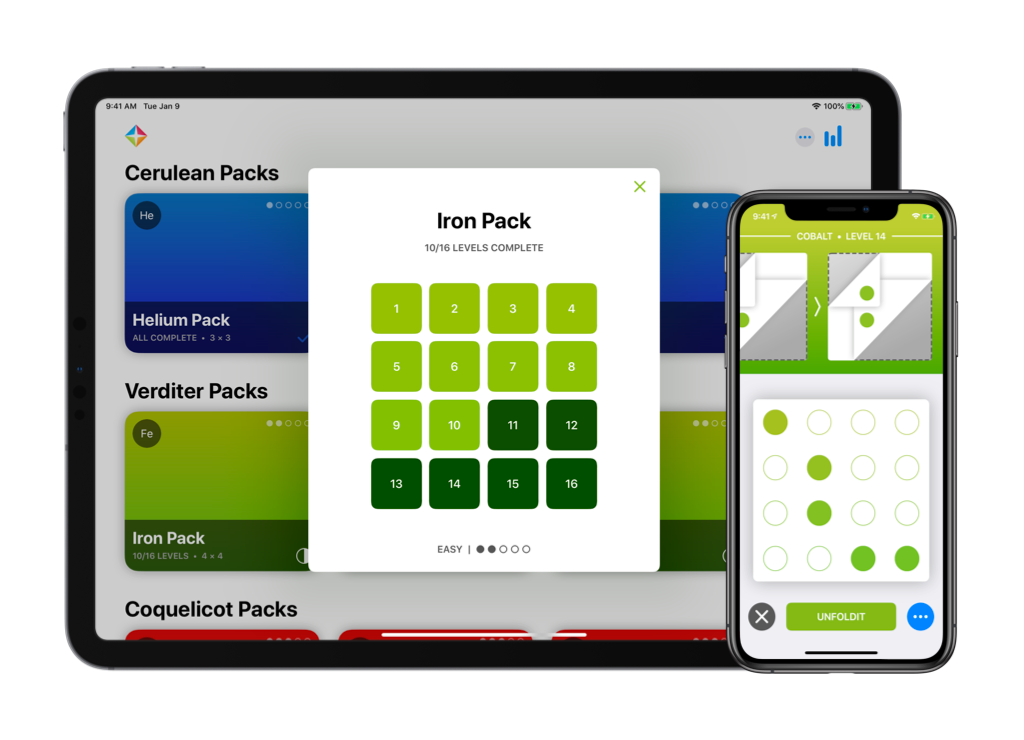
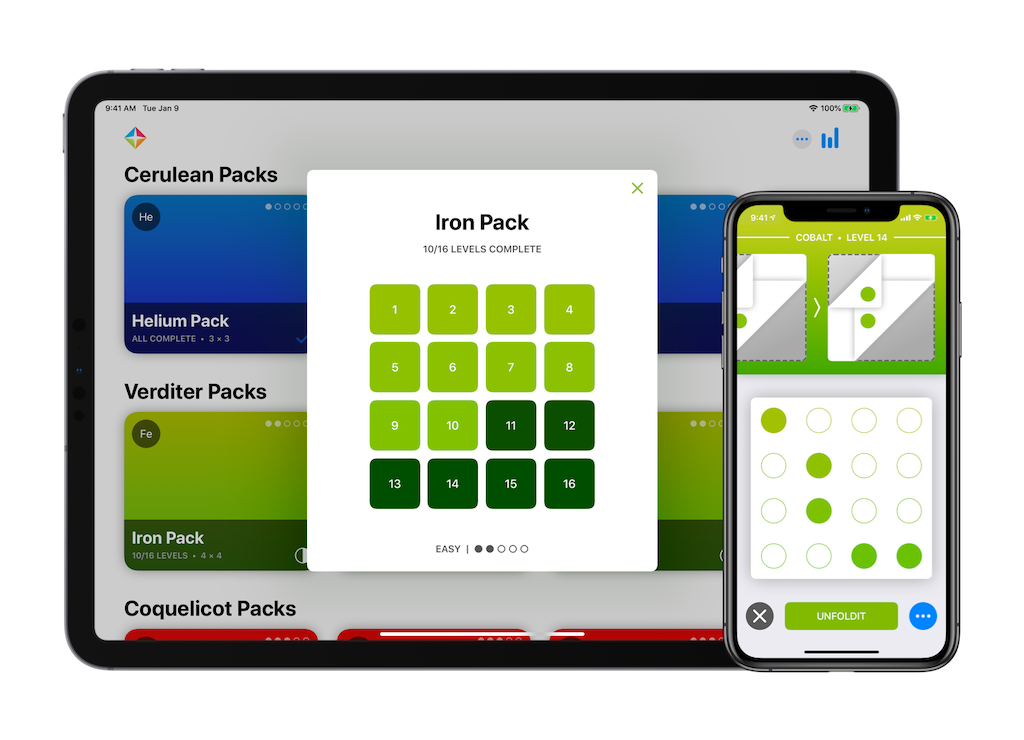
Update iOSDeviceImages and iOSOverview with centered interactive game grid and iPhone with correct aspect ratio

diff --git a/play.html b/play.html
@@ -39,7 +39,7 @@
 
                                 <div class="box alt">
                                     <div class="row uniform">
-                                        <div class="12u$"><span class="image fit"><img src="images/iOSDeviceImages6.png" alt="Unfoldit for iOS" /></span></div>
+                                        <div class="12u$"><span class="image fit"><img src="images/iOSDeviceImages7.png" alt="Unfoldit for iOS" /></span></div>
                                     </div>
                                 </div>
                                 <br></br>

diff --git a/index.html b/index.html
@@ -84,7 +84,7 @@
 
                                 <div class="box alt">
                                     <div class="row uniform">
-                                        <div class="12u$"><span class="image fit"><img src="images/iOSDeviceImages6.png" alt="Unfoldit for iOS" /></span></div>
+                                        <div class="12u$"><span class="image fit"><img src="images/iOSDeviceImages7.png" alt="Unfoldit for iOS" /></span></div>
                                     </div>
                                 </div>
 
